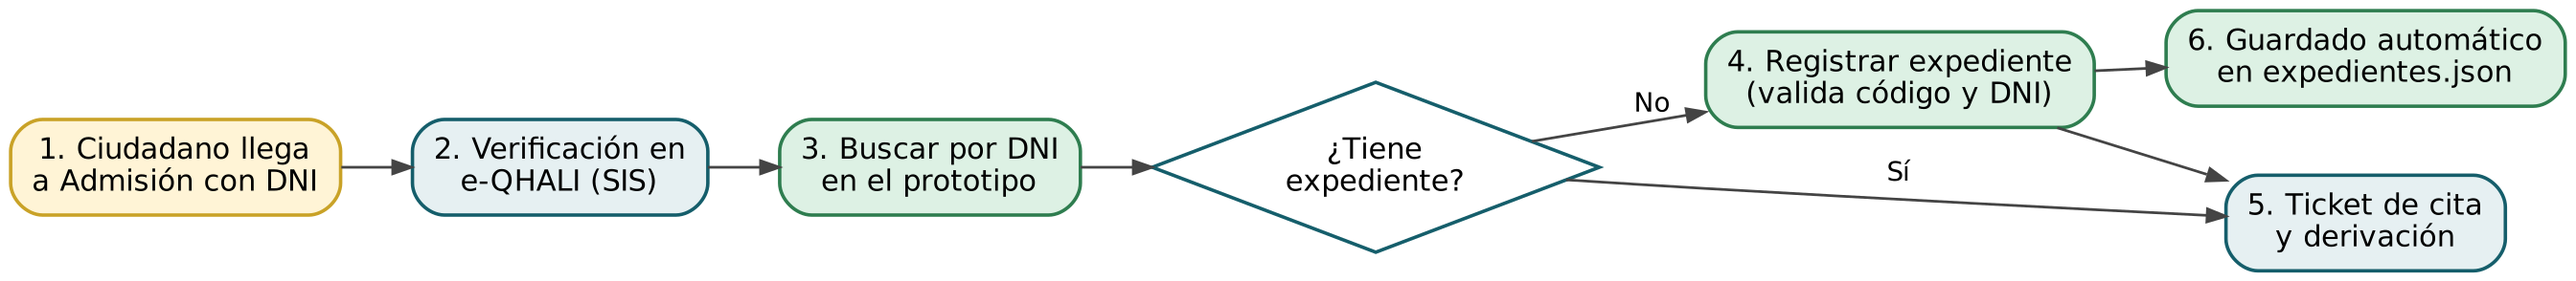
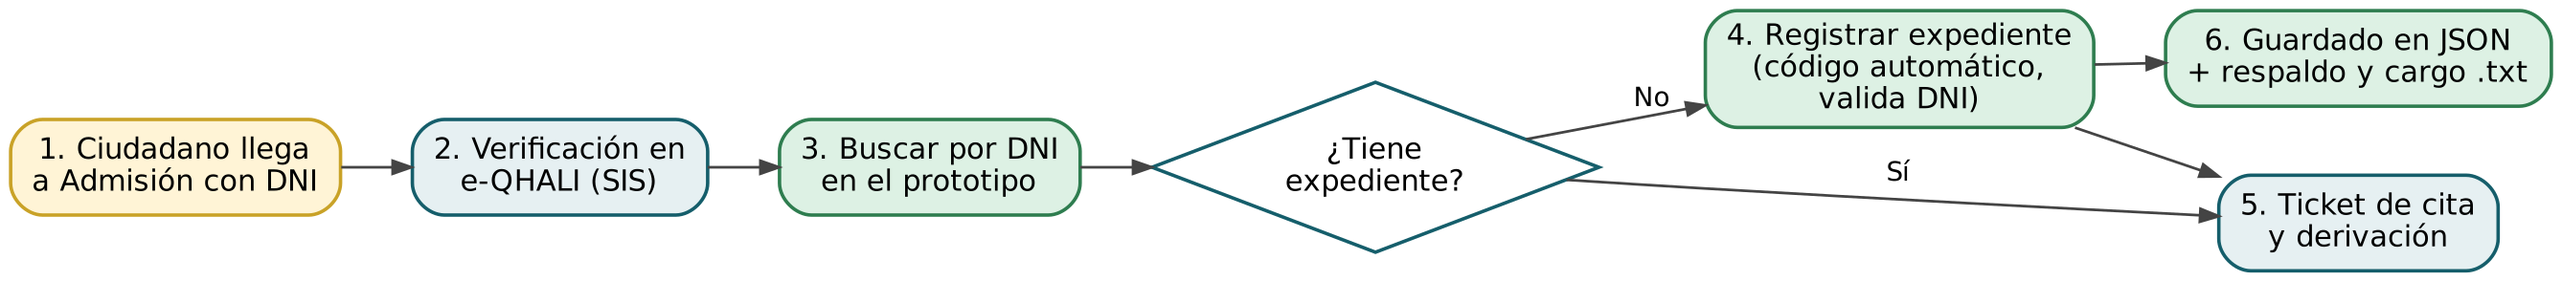
Actualizar README, diagramas y capturas a la versión modular
Claude-Session: https://claude.ai/code/session_01TBKwzJc7gY8S2dkcLP8Q3e

diff --git a/README.md b/README.md
@@ -4,7 +4,7 @@
 ![Estado](https://img.shields.io/badge/estado-prototipo%20acad%C3%A9mico-155E6B)
 ![Licencia](https://img.shields.io/badge/licencia-MIT-green)
 
-Prototipo de consola en Python que digitaliza el registro de expedientes de la mesa de partes del área de **Admisión** de un centro de salud del MINSA. Permite **registrar, validar, buscar, actualizar el estado, ordenar, obtener estadísticas y guardar** expedientes en un archivo JSON, sin bases de datos ni librerías externas (solo módulos estándar de Python).
+Prototipo de consola en Python que digitaliza el registro de expedientes de la mesa de partes del área de **Admisión** de un centro de salud del MINSA. Permite **registrar, validar, buscar, actualizar el estado, ordenar, obtener estadísticas y guardar** expedientes en un archivo JSON con copia de respaldo, sin bases de datos ni librerías externas (solo módulos estándar de Python).
 
 Proyecto del desafío **«Del archivador al algoritmo: un prototipo para la mesa de partes digital»**, curso *Fundamentos de Programación (CIIN1205P)*, Universidad Privada del Norte.
 
@@ -52,20 +52,22 @@ El diagrama de Ishikawa resume las causas del problema en seis categorías (6M):
 
 | Opción | Función | Qué hace |
 |:-:|---|---|
-| 1 | `registrar_expediente()` | Registra un expediente con la fecha del día y estado **Recibido**. Valida código único, DNI de 8 dígitos y campos obligatorios |
-| 2 | `buscar_y_consultar()` | Submenú: buscar por código, por DNI o por área |
-| 3 | `actualizar_tramite()` | Submenú: cambiar el estado del trámite (Recibido → En proceso → Atendido → Archivado) o eliminar un expediente registrado por error |
-| 4 | `listar_y_ordenar()` | Submenú: mostrar todos, ordenar por código (burbuja) o listar por estado |
-| 5 | `estadisticas()` | Total de trámites, registrados hoy, pendientes, conteo y porcentaje por estado y por área, y cuadro área × estado |
+| 1 | `registrar_expediente()` | Pide el DNI (se repite hasta que tenga 8 dígitos), avisa si ese DNI ya tiene un trámite pendiente, pide nombre, área (de un catálogo numerado) y asunto. **Genera el código** `EXP-AAAA-NNNN`, pone la fecha del día y el estado **Recibido**, guarda y escribe el **cargo de recepción** en `cargo_<código>.txt` |
+| 2 | `buscar_y_consultar()` | Buscar por **código**, **DNI**, **nombre** (parcial, sin importar mayúsculas) o **área**; muestra la ficha o una tabla y cuántos se encontraron |
+| 3 | `actualizar_estado()` | Cambia el estado del trámite. Solo puede avanzar: Recibido → En proceso → Atendido → Archivado. Un expediente archivado ya no cambia |
+| 4 | `listar_y_ordenar()` | Listar todos, **ordenar por código, nombre o fecha** (burbuja) o listar por estado |
+| 5 | `estadisticas()` | Total, registrados hoy, pendientes, cantidad y **porcentaje por estado y por área** con barras, área con más trámites y **cuadro área × estado** |
 | 6 | — | Sale del sistema |
 
-Cada cambio se guarda automáticamente en `expedientes.json`, y al iniciar el programa se cargan los expedientes guardados.
+Cada cambio se guarda en `expedientes.json` y en `expedientes_respaldo.json`. Si el archivo principal se daña, al iniciar se recuperan los datos del respaldo.
+
+> Los expedientes no se eliminan: como en una mesa de partes real, un trámite terminado se **archiva** y queda en el historial.
 
 ---
 
 ## Demostración
 
-| Registro y búsqueda tras reiniciar | Validaciones |
+| Registro, cargo y búsqueda tras reiniciar | Validaciones: el dato incorrecto se vuelve a pedir |
 |:-:|:-:|
 | ![Registro](docs/img/demo-registro.png) | ![Validaciones](docs/img/demo-validaciones.png) |
 
@@ -90,13 +92,18 @@ En Windows usa `python main.py`. Se necesita Python 3.10 o superior porque el me
 ```
 mesa-partes-digital/
 ├── main.py            # Menú del sistema (while True + match/case)
-├── funciones.py       # Lógica: registrar, eliminar, buscar, ordenar, cargar y guardar
-├── expedientes.json   # Datos de ejemplo (ficticios); se crea al registrar el primero
+├── datos.py           # Catálogos ESTADOS y AREAS, lista expedientes, cargar y guardar (JSON + respaldo)
+├── validaciones.py    # Pedir DNI, textos y opciones hasta que sean válidos
+├── tramites.py        # Opciones 1 a 4: registrar, buscar, actualizar estado, listar y ordenar
+├── reportes.py        # Opción 5: estadísticas con arreglos paralelos y matriz
+├── expedientes.json   # Datos de ejemplo (ficticios)
 ├── docs/img/          # Diagramas y capturas usados en este README
 ├── .gitignore
 ├── LICENSE
 └── README.md
 ```
+
+Al usar el programa se crean también `expedientes_respaldo.json` y un `cargo_EXP-AAAA-NNNN.txt` por cada registro (están en `.gitignore`).
 
 ---
 
@@ -119,7 +126,7 @@ mesa-partes-digital/
 ```
 
 - Al iniciar, `cargar_expedientes()` lo lee con `json.load`; después de cada cambio, `guardar_expedientes()` lo reescribe con `json.dump(..., ensure_ascii=False, indent=4)` para conservar tildes y ñ.
-- Si el archivo está dañado, el programa avisa y arranca con la lista vacía.
+- Cada vez que se guarda, se escribe también `expedientes_respaldo.json`. Si el archivo principal está dañado, el programa avisa y carga el respaldo; si tampoco existe, arranca con la lista vacía.
 
 ---
 
@@ -133,12 +140,12 @@ mesa-partes-digital/
 
 ```mermaid
 flowchart TD
-    A([Inicio]) --> B[cargar_expedientes]
+    A([Inicio]) --> B[cargar_expedientes<br/>JSON o respaldo]
     B --> C[/Mostrar menú y leer opción/]
     C --> D{match opción}
     D -- 1 --> E[registrar_expediente]
     D -- 2 --> F[buscar_y_consultar]
-    D -- 3 --> G[actualizar_tramite]
+    D -- 3 --> G[actualizar_estado]
     D -- 4 --> H[listar_y_ordenar]
     D -- 5 --> I[estadisticas]
     D -- case _ --> L[/Opción no válida/]
@@ -148,7 +155,7 @@ flowchart TD
 
 ### Registro y ordenamiento
 
-| Registro | Ordenamiento burbuja |
+| Registro | Ordenamiento burbuja por campo |
 |:-:|:-:|
 | ![Flujo registrar](docs/img/flujo-registrar.png) | ![Flujo ordenar](docs/img/flujo-ordenar.png) |
 
@@ -156,12 +163,14 @@ flowchart TD
 
 | Concepto | Dónde |
 |---|---|
-| Estructuras de control | `while True` y `match/case` del menú, `if` en validaciones, `for` en búsquedas y dos `for` anidados en la burbuja |
-| Funciones | 16 funciones en `funciones.py`; `mostrar_expediente(expediente)` recibe un parámetro |
-| Listas (arreglos) | Lista `expedientes` de diccionarios: `append`, `remove` e intercambio por índice; arreglos paralelos `areas` / `matriz` y arreglo bidimensional área × estado en las estadísticas |
-| Cadenas | `strip()`, `upper()`, `lower()`, `title()`, `ljust()`/`rjust()`, `isdigit()`, `len()` y fecha con `strftime("%d/%m/%Y")` |
-| Archivos | `open()` en modo `"r"` y `"w"` con `encoding="utf-8"`, `json.load` / `json.dump`, `os.path.exists` |
-| Manejo de errores | `try/except json.JSONDecodeError` al cargar |
+| Estructuras de control | `while True` y `match/case` del menú; `while` que repite un dato inválido; `if/elif`; `for` en búsquedas y dos `for` anidados en la burbuja |
+| Funciones | 20 funciones en 4 módulos; con parámetros (`mostrar_expediente(e)`, `ordenar_burbuja(campo)`) y con `return` (`es_dni_valido`, `generar_codigo`, `buscar_indice`, `porcentaje`) |
+| Arreglos unidimensionales | Catálogos `ESTADOS` y `AREAS`; lista `expedientes` de diccionarios |
+| Arreglos paralelos | `AREAS[i]` ↔ `por_area[i]` y `ESTADOS[j]` ↔ `por_estado[j]` en las estadísticas |
+| Arreglo bidimensional | `matriz[i][j]`: expedientes del área *i* en el estado *j* |
+| Cadenas | `split("-")`, `zfill(4)`, `strip()`, `upper()`, `lower()`, `title()`, `isdigit()`, `ljust()`/`rjust()`, `in`, fecha con `strftime` |
+| Archivos | `json.load` / `json.dump` con respaldo; `write()` del cargo de recepción en `.txt` |
+| Manejo de errores | `try/except json.JSONDecodeError` con recuperación desde el respaldo |
 
 ### Eficiencia
 
@@ -177,26 +186,29 @@ La búsqueda lineal y el archivo JSON son suficientes incluso para un año de da
 
 ## Pruebas
 
-Se ejecutaron **17 casos de prueba** y todos dan el resultado esperado.
+Se ejecutaron **22 casos de prueba** y todos dan el resultado esperado.
 
 | Grupo | Casos |
 |---|---|
-| Registro y persistencia | Registro válido; el expediente sigue al reiniciar |
-| Validaciones | Código repetido, DNI de 7 dígitos, DNI con letra, campo vacío, opción inválida |
-| Búsquedas | Por DNI (con y sin resultados), por código inexistente, por área en minúsculas y área sin registros |
-| Ordenamiento y eliminación | Orden en pantalla y en `expedientes.json`; eliminar existente e inexistente |
-| Robustez | Archivo JSON dañado (avisa y sigue); código en minúsculas (`exp-2026-0007`) detectado como repetido |
+| Registro y persistencia | Registro válido con código automático y cargo `.txt`; el expediente sigue al reiniciar |
+| Validaciones | DNI de 7 dígitos, DNI con letra, nombre vacío y área fuera de rango se vuelven a pedir; DNI con trámite pendiente avisa; opción de menú inválida |
+| Búsquedas | Código en minúsculas, código inexistente, DNI, parte del nombre y área |
+| Estados | Avanzar de Recibido a En proceso (se guarda); un expediente archivado no cambia |
+| Listar y ordenar | Ordenar por nombre, por fecha y por código (también en el JSON); listar por estado |
+| Estadísticas | Totales, porcentajes por estado y área y cuadro área × estado |
+| Robustez | JSON dañado con respaldo (recupera los datos) y sin respaldo (avisa y sigue) |
 
 ---
 
 ## Limitaciones y trabajo futuro
 
-- [ ] Copia de respaldo (`expedientes.bak`) antes de guardar, para no perder datos si el JSON se daña
-- [ ] Generar el código `EXP-AAAA-NNNN` automáticamente
-- [ ] Volver a pedir solo el dato incorrecto, en lugar de cancelar el registro
-- [ ] Elegir el área de un catálogo numerado
+- [x] Copia de respaldo antes de guardar
+- [x] Generar el código `EXP-AAAA-NNNN` automáticamente
+- [x] Volver a pedir solo el dato incorrecto
+- [x] Elegir el área de un catálogo numerado
 - [ ] Reemplazar la burbuja por `sorted()` cuando haya miles de expedientes
 - [ ] Migrar a una base de datos (SQLite) para varios usuarios
+- [ ] Usuarios y contraseña para proteger los datos personales
 
 ---
 
